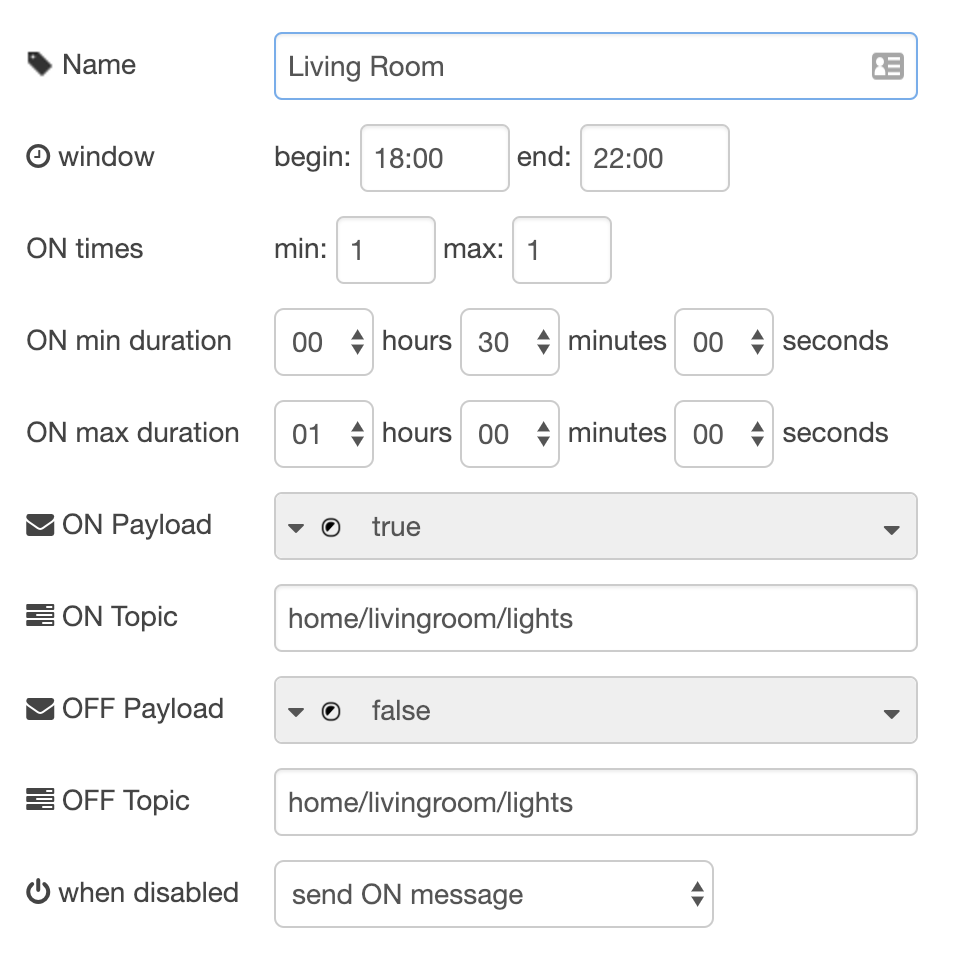
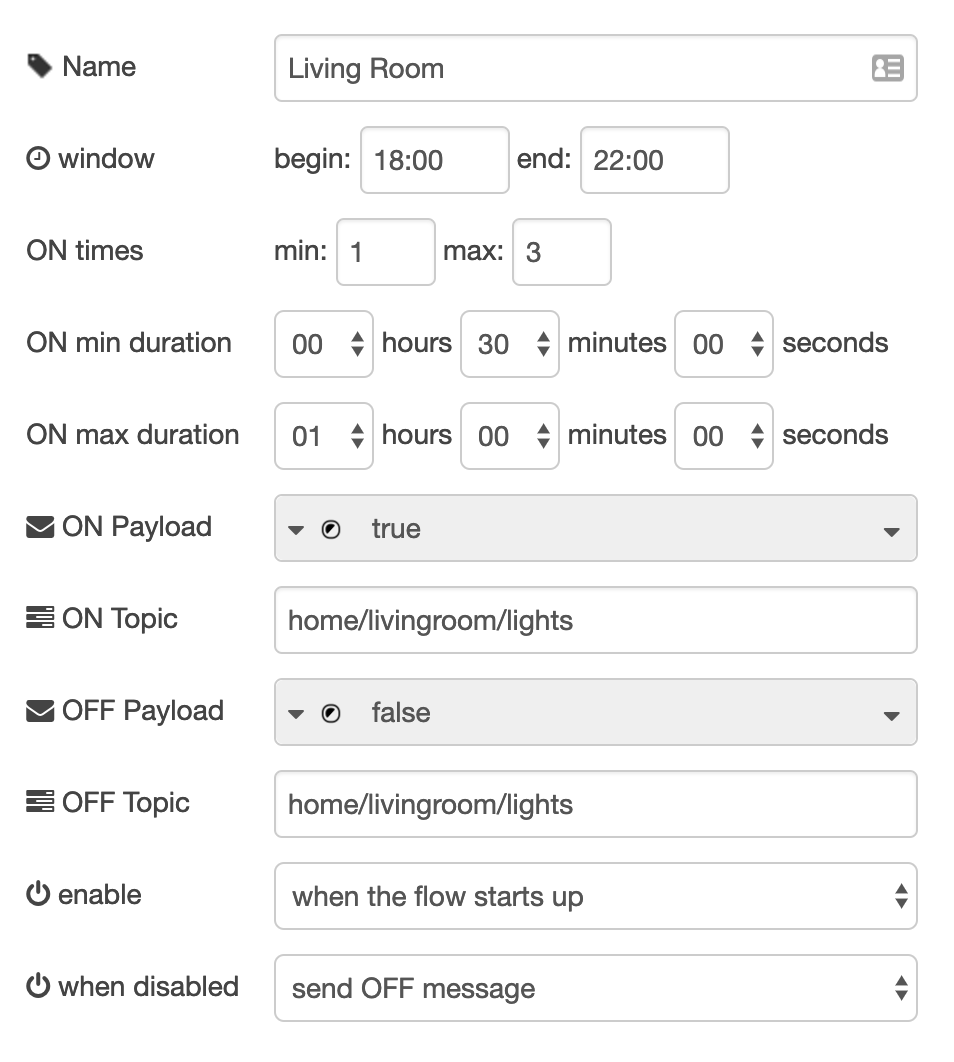
add option to configure startup behavior

diff --git a/presence-faker.html b/presence-faker.html
@@ -80,6 +80,7 @@
           return true
         }
       },
+      startupBehavior: { value: 'onMsg' },
       actionOnDisable: { value: 'none' }
     },
     inputs: 1,
@@ -354,8 +355,16 @@
   </div>
 
   <div class="form-row">
+    <label for="node-input-startupBehavior"><i class="fa fa-power-off"></i> <span>enable</span></label>
+    <select id="node-input-startupBehavior" style="width:70%">
+      <option value="onMsg">when TRUE is received as msg.payload</option>
+      <option value="onStartup">when the flow starts up</option>
+    </select>
+  </div>
+
+  <div class="form-row">
     <label for="node-input-actionOnDisable"><i class="fa fa-power-off"></i> <span>when disabled</span></label>
-    <select id="node-input-actionOnDisable">
+    <select id="node-input-actionOnDisable" style="width:70%">
       <option value="none">do nothing</option>
       <option value="on">send ON message</option>
       <option value="off">send OFF message</option>
@@ -382,13 +391,15 @@
     </dl>
   <h3>Details</h3>
   <p>
-    The node does nothing unless it receives <code>true</code> as an incoming <code>msg.payload</code>, which will
-    activate the node and generate a random schedule of ON / OFF events. Those will be ejected over time as outgoing
+    By default the node does nothing unless it receives <code>true</code> as an incoming <code>msg.payload</code>,
+    which will activate the node and generate a random schedule of ON / OFF events. Those will be ejected over time as outgoing
     messages with <code>payload</code> and <code>topic</code> as specified in the node properties.
   </p>
   <p>
-    Once the node receives a message with <code>msg.payload</code> of <code>false</code> it will get disabled. It will
-    then not output any more messages, hence leaving the controlling device in its current state.
+    You can also configure the node to start up enabled in order not to require an incoming activation message.
+  <p>
+    Once the node receives a message with <code>msg.payload</code> of <code>false</code> it will get disabled. You can configure
+    whether or not and what kind of message the node should eject in this case.
   </p>
   <p>
       Enabling / disabling the node would typically be triggered by your home automation system, e.g. based on

diff --git a/presence-faker.js b/presence-faker.js
@@ -180,7 +180,12 @@ module.exports = function (RED) {
       stopCrons()
     })
     ;(function () {
-      setNodeStatus('inactive upon load')
+      // on startup:
+      if (config.startupBehavior === 'onStartup') {
+        node.emit('input', { payload: true })
+      } else {
+        setNodeStatus('inactive upon load')
+      }
     })()
   }
 
